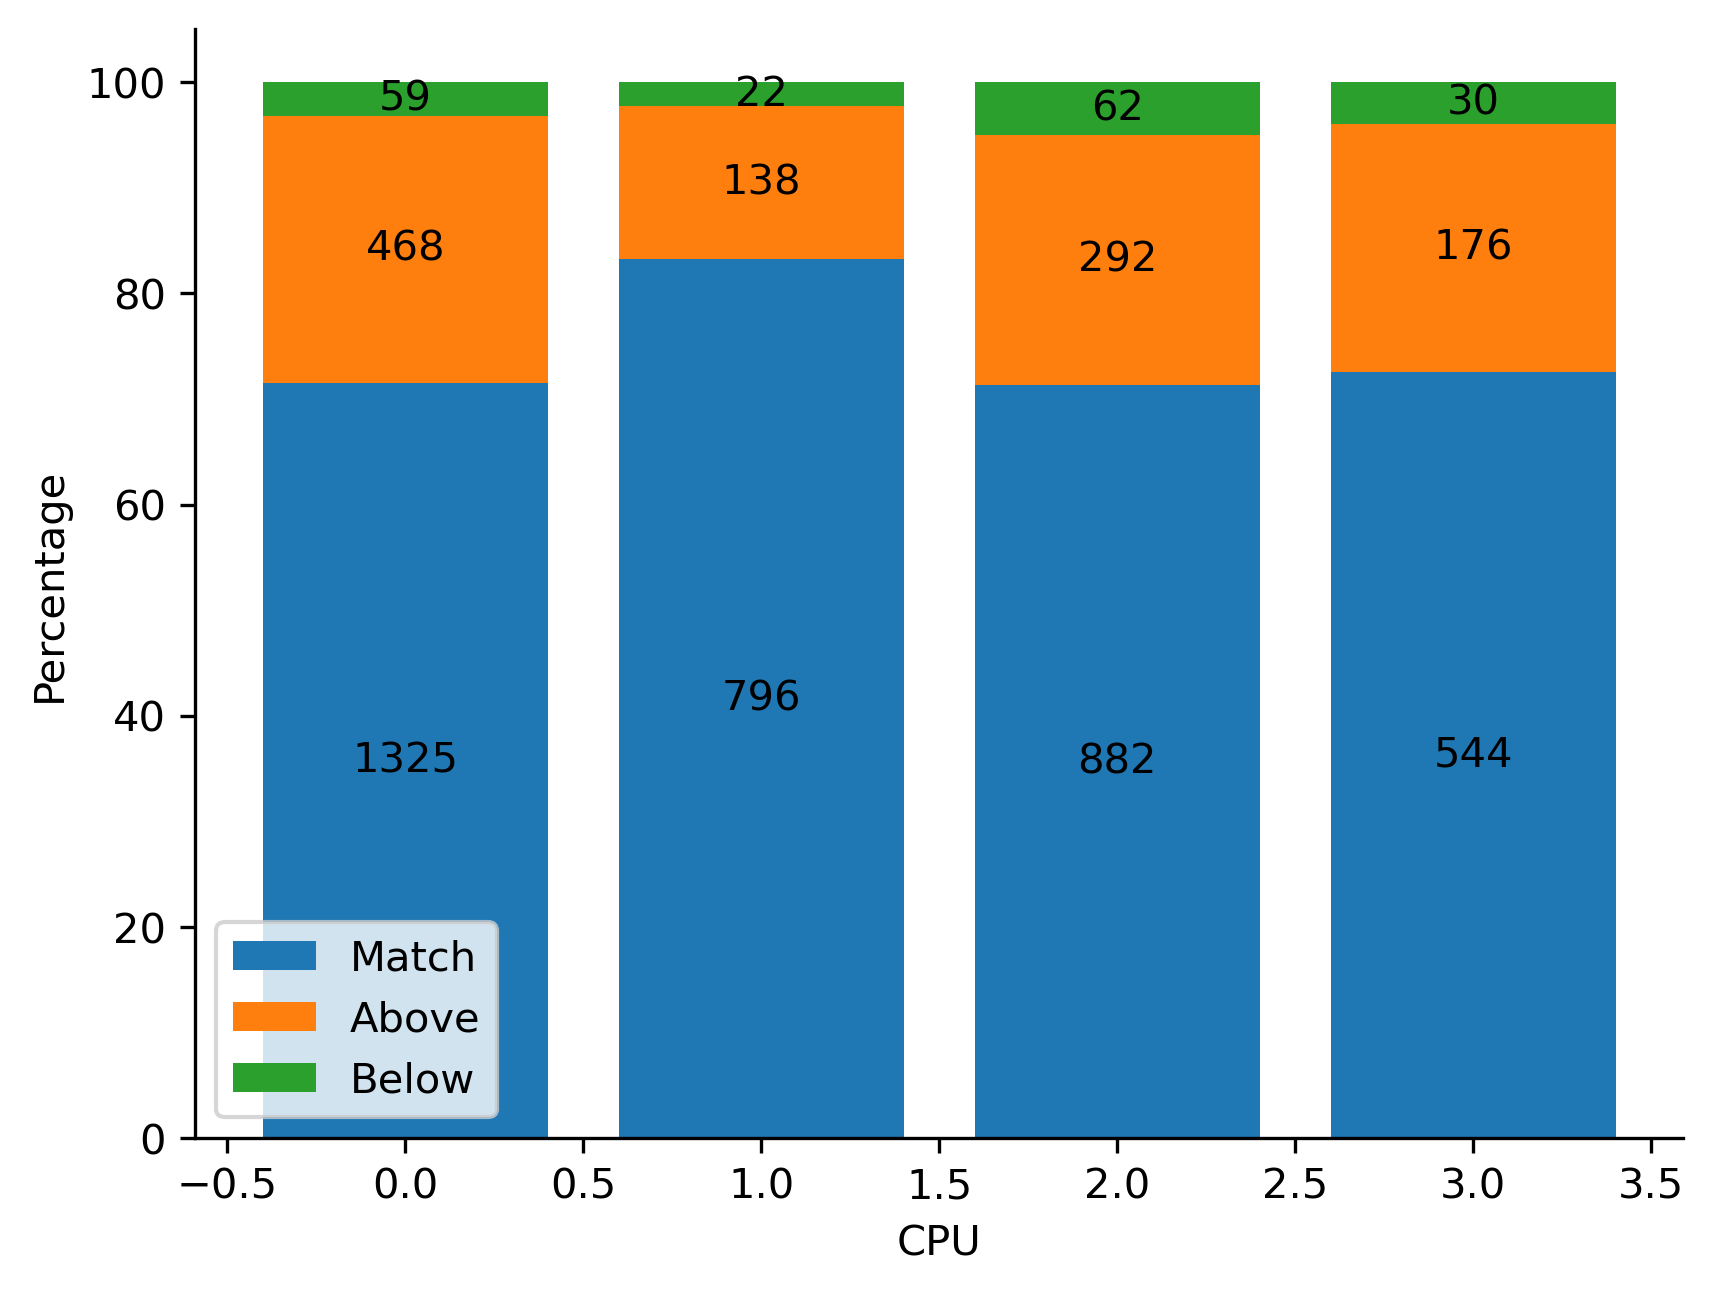
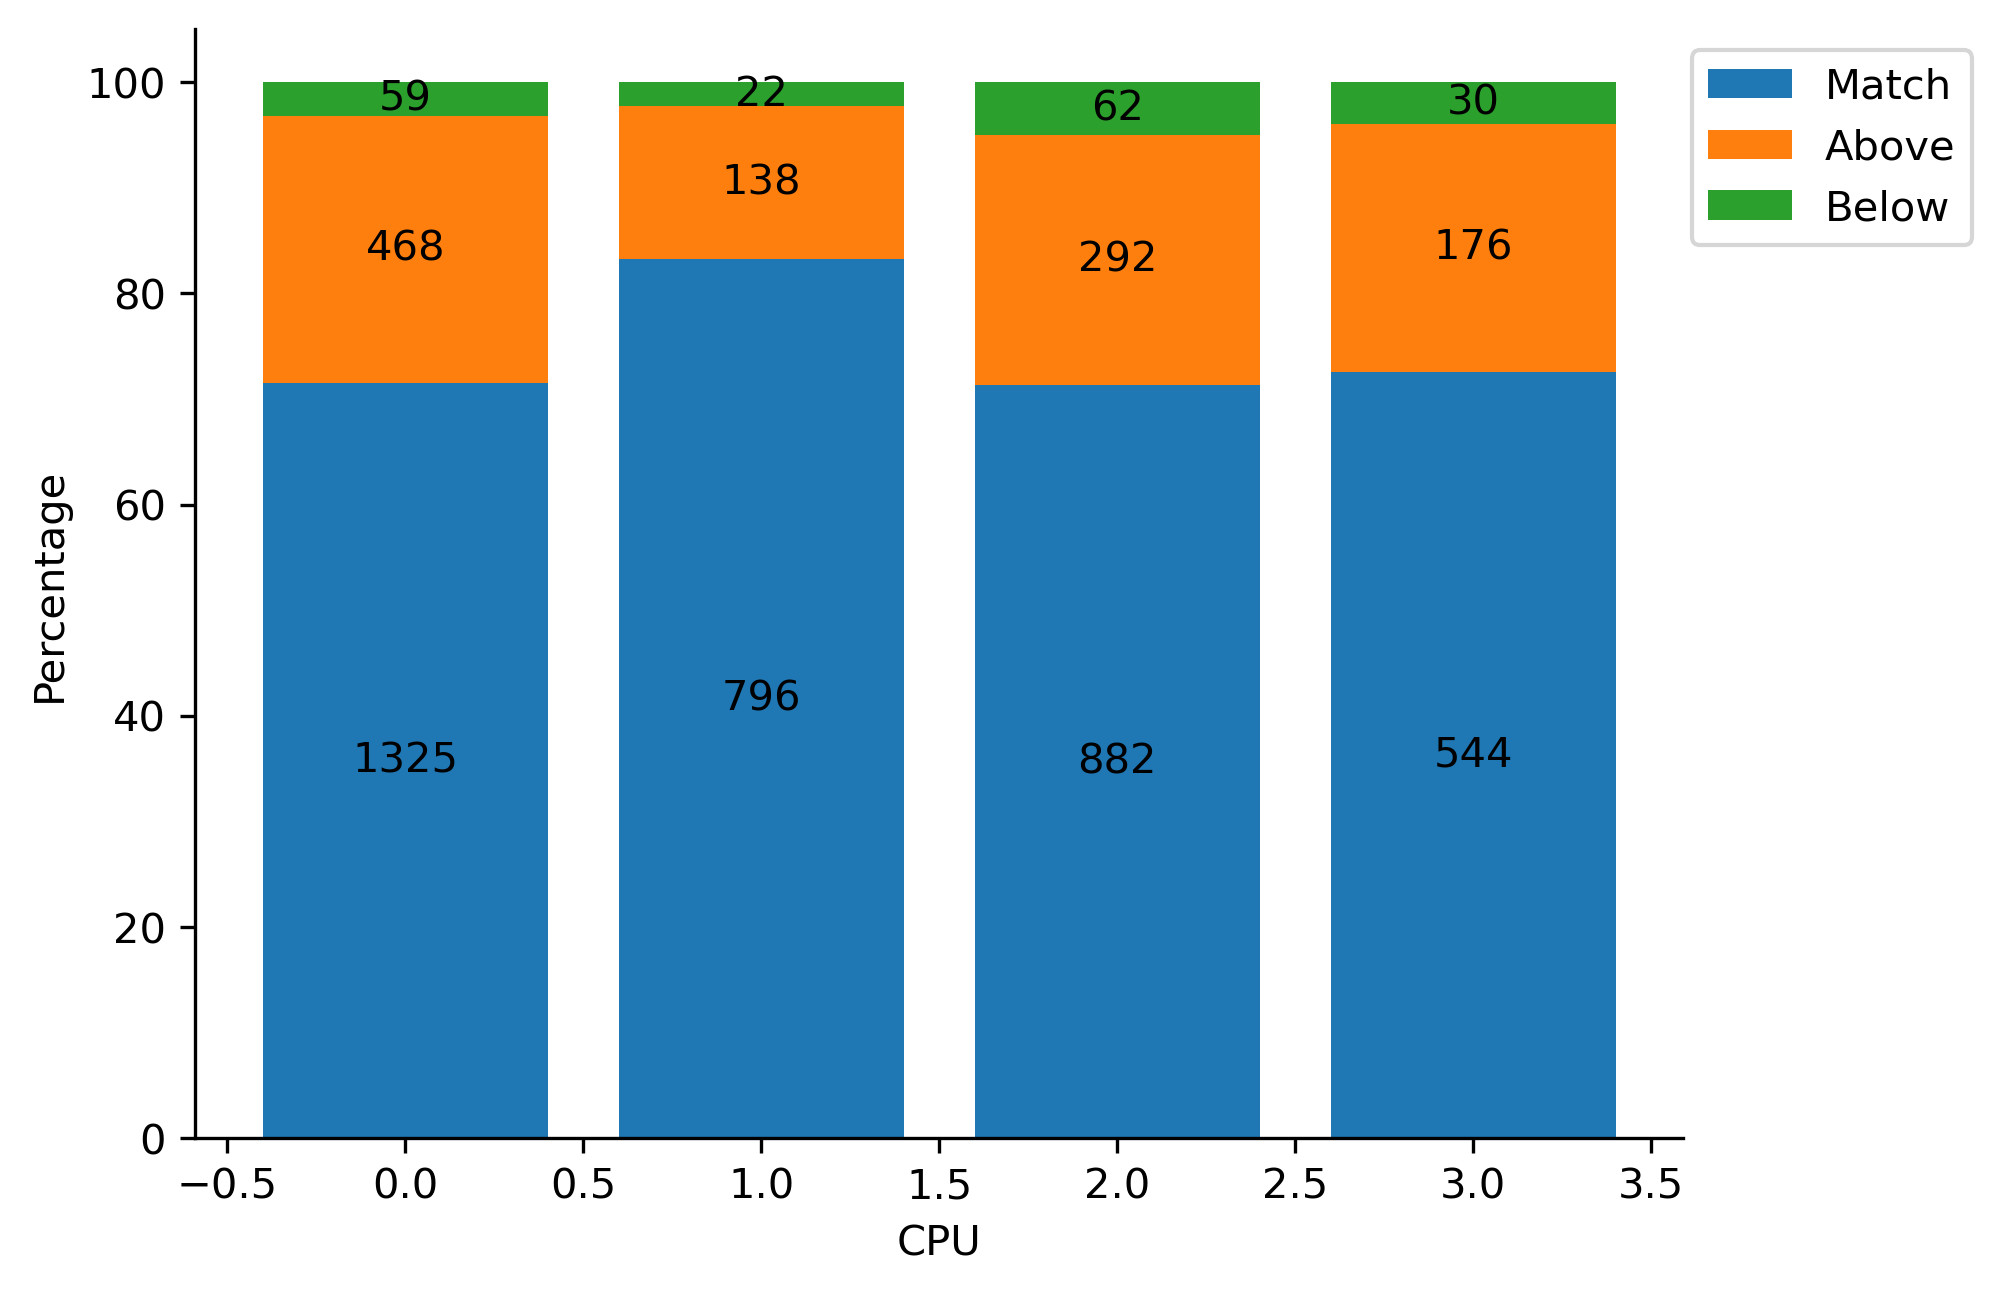
idle-governor: own box for legend on bar charts

diff --git a/images/idle-governor/idle-governor-cstate-miss-bar.py b/images/idle-governor/idle-governor-cstate-miss-bar.py
@@ -53,7 +53,7 @@ ax.spines['right'].set_visible(False)
 
 plt.xlabel('C-State')
 plt.ylabel('Percentage')
-plt.legend(['Match', 'Above', 'Below'])
+plt.legend(['Match', 'Above', 'Below'], loc='upper center', bbox_to_anchor=(0.85, 0, 0.5, 1))
 
 print(f'generate {FILE_PDF}')
 plt.savefig(FILE_PDF, dpi=300, bbox_inches='tight')

diff --git a/images/idle-governor/idle-governor-cpu-miss-bar.py b/images/idle-governor/idle-governor-cpu-miss-bar.py
@@ -54,7 +54,7 @@ ax.spines['right'].set_visible(False)
 
 plt.xlabel('CPU')
 plt.ylabel('Percentage')
-plt.legend(['Match', 'Above', 'Below'])
+plt.legend(['Match', 'Above', 'Below'], loc='upper center', bbox_to_anchor=(0.85, 0, 0.5, 1))
 
 print(f'generate {FILE_PDF}')
 plt.savefig(FILE_PDF, dpi=300, bbox_inches='tight')
